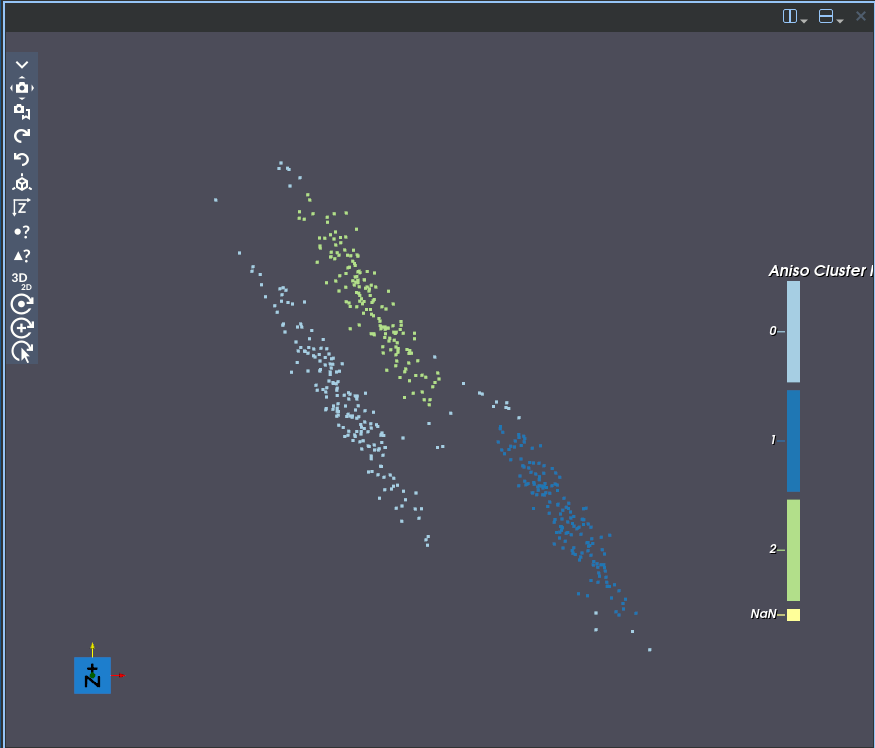
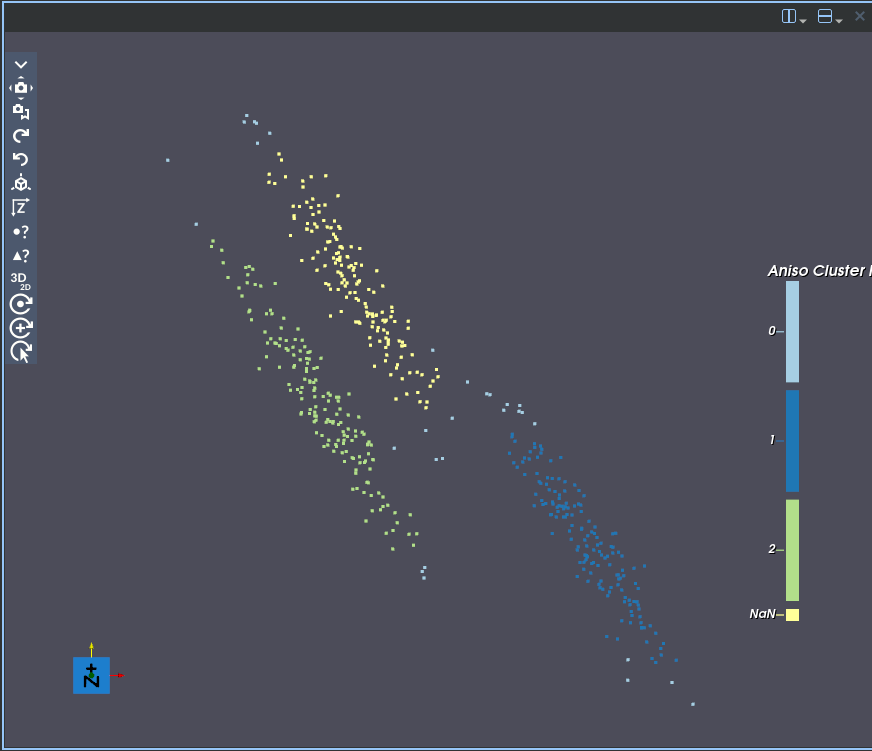
Documentation, alg, filter, and test patches

diff --git a/src/Plugins/SimplnxCore/test/DBSCANTest.cpp b/src/Plugins/SimplnxCore/test/DBSCANTest.cpp
@@ -48,7 +48,7 @@ const std::string k_AMPostFix = " AM";
 const fs::path k_2DTestFile(fmt::format("{}/dbscan_test/7_0_2d_dbscan_test_data.dream3d", "/home/nyoung/Downloads"));
 //const fs::path k_2DTestFile(fmt::format("{}/dbscan_tests/7_0_2d_dbscan_test_data.dream3d", unit_test::k_TestFilesDir));
 
-void LDFTestCase2D(const DataPath& targetPath, float32 epsilonVal, const DataPath& exemplarClusterIds)
+void LDFTestCase2D(const DataPath& targetPath, float32 epsilonVal, int32 minPtsVal, const DataPath& exemplarClusterIds)
 {
   //const nx::core::UnitTest::TestFileSentinel testDataSentinel(nx::core::unit_test::k_CMakeExecutable, nx::core::unit_test::k_TestFilesDir, "dbscan_tests.tar.gz", "dbscan_tests");
   DataStructure dataStructure = UnitTest::LoadDataStructure(k_2DTestFile);
@@ -65,7 +65,7 @@ void LDFTestCase2D(const DataPath& targetPath, float32 epsilonVal, const DataPat
     // Create default Parameters for the filter.
     args.insertOrAssign(DBSCANFilter::k_ParseOrderIndex_Key, std::make_any<ChoicesParameter::ValueType>(to_underlying(DBSCAN::ParseOrder::LowDensityFirst)));
     args.insertOrAssign(DBSCANFilter::k_Epsilon_Key, std::make_any<float32>(epsilonVal));
-    args.insertOrAssign(DBSCANFilter::k_MinPoints_Key, std::make_any<int32>(3));
+    args.insertOrAssign(DBSCANFilter::k_MinPoints_Key, std::make_any<int32>(minPtsVal));
     args.insertOrAssign(DBSCANFilter::k_UseMask_Key, std::make_any<bool>(false));
     args.insertOrAssign(DBSCANFilter::k_SelectedArrayPath_Key, std::make_any<DataPath>(targetPath));
     args.insertOrAssign(DBSCANFilter::k_FeatureIdsArrayName_Key, std::make_any<std::string>(k_GeneratedIdsName));
@@ -108,7 +108,7 @@ std::vector<usize> BinPoints(const Int32Array& dataArray)
   return bins;
 }
 
-void RandomTestCase2D(const DataPath& targetPath, float32 epsilonVal, const DataPath& exemplarClusterIds, ChoicesParameter::ValueType randomType)
+void RandomTestCase2D(const DataPath& targetPath, float32 epsilonVal, int32 minPtsVal, const DataPath& exemplarClusterIds, ChoicesParameter::ValueType randomType)
 {
   REQUIRE((randomType == to_underlying(DBSCAN::ParseOrder::Random) || randomType == to_underlying(DBSCAN::ParseOrder::SeededRandom)));
 
@@ -131,7 +131,7 @@ void RandomTestCase2D(const DataPath& targetPath, float32 epsilonVal, const Data
     args.insertOrAssign(DBSCANFilter::k_SeedValue_Key, std::make_any<uint64>(k_Seed)); // Will be ignored if randomType == DBSCAN::ParseOrder::Random
     args.insertOrAssign(DBSCANFilter::k_SeedArrayName_Key, std::make_any<std::string>("seed_array"));
     args.insertOrAssign(DBSCANFilter::k_Epsilon_Key, std::make_any<float32>(epsilonVal));
-    args.insertOrAssign(DBSCANFilter::k_MinPoints_Key, std::make_any<int32>(3));
+    args.insertOrAssign(DBSCANFilter::k_MinPoints_Key, std::make_any<int32>(minPtsVal));
     args.insertOrAssign(DBSCANFilter::k_UseMask_Key, std::make_any<bool>(false));
     args.insertOrAssign(DBSCANFilter::k_SelectedArrayPath_Key, std::make_any<DataPath>(targetPath));
     args.insertOrAssign(DBSCANFilter::k_FeatureIdsArrayName_Key, std::make_any<std::string>(k_GeneratedIdsName));
@@ -192,50 +192,62 @@ void RandomTestCase2D(const DataPath& targetPath, float32 epsilonVal, const Data
 
 TEST_CASE("SimplnxCore::DBSCAN: 2D Test: Aniso", "[SimplnxCore][DBSCAN]")
 {
+  float32 epsVal = 0.15f;
+  int32 minPtsVal = 4;
   // The exemplars were generated with LDF
-  ::LDFTestCase2D(k_AnisoArrayPath, 0.15f, k_AnsioClusterArrayPath);
-  ::RandomTestCase2D(k_AnisoArrayPath, 0.15f, k_AnsioClusterArrayPath, DBSCAN::ParseOrder::Random);
-  ::RandomTestCase2D(k_AnisoArrayPath, 0.15f, k_AnsioClusterArrayPath, DBSCAN::ParseOrder::SeededRandom);
+  ::LDFTestCase2D(k_AnisoArrayPath, epsVal, minPtsVal, k_AnsioClusterArrayPath);
+  ::RandomTestCase2D(k_AnisoArrayPath, epsVal, minPtsVal, k_AnsioClusterArrayPath, DBSCAN::ParseOrder::Random);
+  ::RandomTestCase2D(k_AnisoArrayPath, epsVal, minPtsVal, k_AnsioClusterArrayPath, DBSCAN::ParseOrder::SeededRandom);
 }
 
 TEST_CASE("SimplnxCore::DBSCAN: 2D Test: Blobs", "[SimplnxCore][DBSCAN]")
 {
+  float32 epsVal = 0.3f;
+  int32 minPtsVal = 3;
   // The exemplars were generated with LDF
-  ::LDFTestCase2D(k_BlobsArrayPath, 0.3f, k_BlobsClusterArrayPath);
-  ::RandomTestCase2D(k_BlobsArrayPath, 0.3f, k_BlobsClusterArrayPath, DBSCAN::ParseOrder::Random);
-  ::RandomTestCase2D(k_BlobsArrayPath, 0.3f, k_BlobsClusterArrayPath, DBSCAN::ParseOrder::SeededRandom);
+  ::LDFTestCase2D(k_BlobsArrayPath, epsVal, minPtsVal, k_BlobsClusterArrayPath);
+  ::RandomTestCase2D(k_BlobsArrayPath, epsVal, minPtsVal, k_BlobsClusterArrayPath, DBSCAN::ParseOrder::Random);
+  ::RandomTestCase2D(k_BlobsArrayPath, epsVal, minPtsVal, k_BlobsClusterArrayPath, DBSCAN::ParseOrder::SeededRandom);
 }
 
 TEST_CASE("SimplnxCore::DBSCAN: 2D Test: Noisy Circles", "[SimplnxCore][DBSCAN]")
 {
+  float32 epsVal = 0.3f;
+  int32 minPtsVal = 3;
   // The exemplars were generated with LDF
-  ::LDFTestCase2D(k_CirclesArrayPath, 0.3f, k_CirclesClusterArrayPath);
-  ::RandomTestCase2D(k_CirclesArrayPath, 0.3f, k_CirclesClusterArrayPath, DBSCAN::ParseOrder::Random);
-  ::RandomTestCase2D(k_CirclesArrayPath, 0.3f, k_CirclesClusterArrayPath, DBSCAN::ParseOrder::SeededRandom);
+  ::LDFTestCase2D(k_CirclesArrayPath, epsVal, minPtsVal, k_CirclesClusterArrayPath);
+  ::RandomTestCase2D(k_CirclesArrayPath, epsVal, minPtsVal, k_CirclesClusterArrayPath, DBSCAN::ParseOrder::Random);
+  ::RandomTestCase2D(k_CirclesArrayPath, epsVal, minPtsVal, k_CirclesClusterArrayPath, DBSCAN::ParseOrder::SeededRandom);
 }
 
 TEST_CASE("SimplnxCore::DBSCAN: 2D Test: Noisy Moons", "[SimplnxCore][DBSCAN]")
 {
+  float32 epsVal = 0.3f;
+  int32 minPtsVal = 3;
   // The exemplars were generated with LDF
-  ::LDFTestCase2D(k_MoonsArrayPath, 0.3f, k_MoonsClusterArrayPath);
-  ::RandomTestCase2D(k_MoonsArrayPath, 0.3f, k_MoonsClusterArrayPath, DBSCAN::ParseOrder::Random);
-  ::RandomTestCase2D(k_MoonsArrayPath, 0.3f, k_MoonsClusterArrayPath, DBSCAN::ParseOrder::SeededRandom);
+  ::LDFTestCase2D(k_MoonsArrayPath, epsVal, minPtsVal, k_MoonsClusterArrayPath);
+  ::RandomTestCase2D(k_MoonsArrayPath, epsVal, minPtsVal, k_MoonsClusterArrayPath, DBSCAN::ParseOrder::Random);
+  ::RandomTestCase2D(k_MoonsArrayPath, epsVal, minPtsVal, k_MoonsClusterArrayPath, DBSCAN::ParseOrder::SeededRandom);
 }
 
 TEST_CASE("SimplnxCore::DBSCAN: 2D Test: No Structure", "[SimplnxCore][DBSCAN]")
 {
+  float32 epsVal = 0.3f;
+  int32 minPtsVal = 3;
   // The exemplars were generated with LDF
-  ::LDFTestCase2D(k_NoStructureArrayPath, 0.3f, k_NoStructureClusterArrayPath);
-  ::RandomTestCase2D(k_NoStructureArrayPath, 0.3f, k_NoStructureClusterArrayPath, DBSCAN::ParseOrder::Random);
-  ::RandomTestCase2D(k_NoStructureArrayPath, 0.3f, k_NoStructureClusterArrayPath, DBSCAN::ParseOrder::SeededRandom);
+  ::LDFTestCase2D(k_NoStructureArrayPath, epsVal, minPtsVal, k_NoStructureClusterArrayPath);
+  ::RandomTestCase2D(k_NoStructureArrayPath, epsVal, minPtsVal, k_NoStructureClusterArrayPath, DBSCAN::ParseOrder::Random);
+  ::RandomTestCase2D(k_NoStructureArrayPath, epsVal, minPtsVal, k_NoStructureClusterArrayPath, DBSCAN::ParseOrder::SeededRandom);
 }
 
 TEST_CASE("SimplnxCore::DBSCAN: 2D Test: Varied", "[SimplnxCore][DBSCAN]")
 {
+  float32 epsVal = 0.18f;
+  int32 minPtsVal = 3;
   // The exemplars were generated with LDF
-  ::LDFTestCase2D(k_VariedArrayPath, 0.18f, k_VariedClusterArrayPath);
-  ::RandomTestCase2D(k_VariedArrayPath, 0.18f, k_VariedClusterArrayPath, DBSCAN::ParseOrder::Random);
-  ::RandomTestCase2D(k_VariedArrayPath, 0.18f, k_VariedClusterArrayPath, DBSCAN::ParseOrder::SeededRandom);
+  ::LDFTestCase2D(k_VariedArrayPath, epsVal, minPtsVal, k_VariedClusterArrayPath);
+  ::RandomTestCase2D(k_VariedArrayPath, epsVal, minPtsVal, k_VariedClusterArrayPath, DBSCAN::ParseOrder::Random);
+  ::RandomTestCase2D(k_VariedArrayPath, epsVal, minPtsVal, k_VariedClusterArrayPath, DBSCAN::ParseOrder::SeededRandom);
 }
 
 //TEST_CASE("SimplnxCore::DBSCAN: 3D Test (LowDensityFirst)", "[SimplnxCore][DBSCAN]")

diff --git a/src/Plugins/SimplnxCore/src/SimplnxCore/Filters/Algorithms/DBSCAN.cpp b/src/Plugins/SimplnxCore/src/SimplnxCore/Filters/Algorithms/DBSCAN.cpp
@@ -130,9 +130,9 @@ public:
         continue;
       }
 
-      float32 xVal = inputArray.getValue((i * 3) + 0);
-      float32 yVal = inputArray.getValue((i * 3) + 1);
-      float32 zVal = inputArray.getValue((i * 3) + 2);
+      auto xVal = static_cast<float32>(inputArray.getValue((i * 3) + 0));
+      auto yVal = static_cast<float32>(inputArray.getValue((i * 3) + 1));
+      auto zVal = static_cast<float32>(inputArray.getValue((i * 3) + 2));
 
       bounds[0] = std::isnan(bounds[0]) ? xVal : std::min(bounds[0], xVal);
       bounds[1] = std::isnan(bounds[1]) ? yVal : std::min(bounds[1], yVal);
@@ -149,9 +149,9 @@ public:
 
     float32 buffer = sideLength;
     std::array<float32, 3> origin = {};
-    origin[0] = static_cast<float32>(bounds[0]) - buffer;
-    origin[1] = static_cast<float32>(bounds[1]) - buffer;
-    origin[2] = static_cast<float32>(bounds[2]) - buffer;
+    origin[0] = bounds[0] - buffer;
+    origin[1] = bounds[1] - buffer;
+    origin[2] = bounds[2] - buffer;
 
     std::array<usize, 3> dims = {};
     dims[0] = static_cast<usize>(((bounds[3] + buffer) - origin[0]) / spacing[0]) + 2;
@@ -306,8 +306,8 @@ public:
       }
 
       // Determine the voxel
-      float32 xVal = inputArray.getValue((i * 2) + 0);
-      float32 yVal = inputArray.getValue((i * 2) + 1);
+      auto xVal = static_cast<float32>(inputArray.getValue((i * 2) + 0));
+      auto yVal = static_cast<float32>(inputArray.getValue((i * 2) + 1));
 
       bounds[0] = std::isnan(bounds[0]) ? xVal : std::min(bounds[0], xVal);
       bounds[1] = std::isnan(bounds[1]) ? yVal : std::min(bounds[1], yVal);
@@ -322,8 +322,8 @@ public:
 
     float32 buffer = sideLength;
     std::array<float32, 2> origin = {};
-    origin[0] = static_cast<float32>(bounds[0]) - buffer;
-    origin[1] = static_cast<float32>(bounds[1]) - buffer;
+    origin[0] = bounds[0] - buffer;
+    origin[1] = bounds[1] - buffer;
 
     std::array<usize, 2> dims = {};
     dims[0] = static_cast<usize>(((bounds[2] + buffer) - origin[0]) / spacing[0]) + 2;

diff --git a/src/Plugins/SimplnxCore/src/SimplnxCore/Filters/DBSCANFilter.cpp b/src/Plugins/SimplnxCore/src/SimplnxCore/Filters/DBSCANFilter.cpp
@@ -134,6 +134,7 @@ IFilter::PreflightResult DBSCANFilter::preflightImpl(const DataStructure& dataSt
 {
   auto pUseMaskValue = filterArgs.value<bool>(k_UseMask_Key);
   auto pEpsilonValue = filterArgs.value<float32>(k_Epsilon_Key);
+  auto pMinPointsValue = filterArgs.value<int32>(k_MinPoints_Key);
   auto pSelectedArrayPathValue = filterArgs.value<DataPath>(k_SelectedArrayPath_Key);
   auto pMaskArrayPathValue = filterArgs.value<DataPath>(k_MaskArrayPath_Key);
   auto pFeatureIdsArrayNameValue = filterArgs.value<std::string>(k_FeatureIdsArrayName_Key);
@@ -143,6 +144,10 @@ IFilter::PreflightResult DBSCANFilter::preflightImpl(const DataStructure& dataSt
   {
     return MakePreflightErrorResult(-7584, fmt::format("Epsilon value {} must be greater than 0.0.", pEpsilonValue));
   }
+  if(pMinPointsValue <= 0)
+  {
+    return MakePreflightErrorResult(-7585, fmt::format("Minimum Points value {} must be greater than 0.0.", pEpsilonValue));
+  }
 
   nx::core::Result<OutputActions> resultOutputActions;
   std::vector<PreflightValue> preflightUpdatedValues;
@@ -150,7 +155,7 @@ IFilter::PreflightResult DBSCANFilter::preflightImpl(const DataStructure& dataSt
   auto clusterArray = dataStructure.getDataAs<IDataArray>(pSelectedArrayPathValue);
   if(clusterArray == nullptr)
   {
-    return MakePreflightErrorResult(-7585, "Array to Cluster MUST be a valid DataPath.");
+    return MakePreflightErrorResult(-7586, "Array to Cluster MUST be a valid DataPath.");
   }
 
   {

diff --git a/src/Plugins/SimplnxCore/docs/DBSCANFilter.md b/src/Plugins/SimplnxCore/docs/DBSCANFilter.md
@@ -35,6 +35,7 @@ An advantage of DBSCAN over other clustering approaches (e.g., [k means](@ref km
 All of the available examples are 2D as they come from [Sci-Kit Learn Toy Datasets](https://scikit-learn.org/stable/auto_examples/cluster/plot_cluster_comparison.html).
 
 Keeping in mind 0 is unlabeled, here is a table of the results:
+*Note: at the time of image capture a bug was showing the yellow as NaNs, but they were labeled with 3 in the cluster array.*
 
 | name | Image |
 |------|-------|
@@ -49,10 +50,10 @@ Here is a table of Hyperparameters used to generate the above images:
 
 | name | `Epsilon` | `Minimum Points` |
 |------|-----------|------------------|
-| `aniso` | 0.15 | 7 |
-| `blobs` | 0.3 | 7 |
+| `aniso` | 0.15 | 4 |
+| `blobs` | 0.3 | 3 |
 | `noisy_circles` | 0.3 | 3 |
-| `noisy_moons` | 0.3 | 7 |
+| `noisy_moons` | 0.3 | 3 |
 | `no_structure` | 0.3 | 3 |
 | `varied` | 0.18 | 3 |
 
